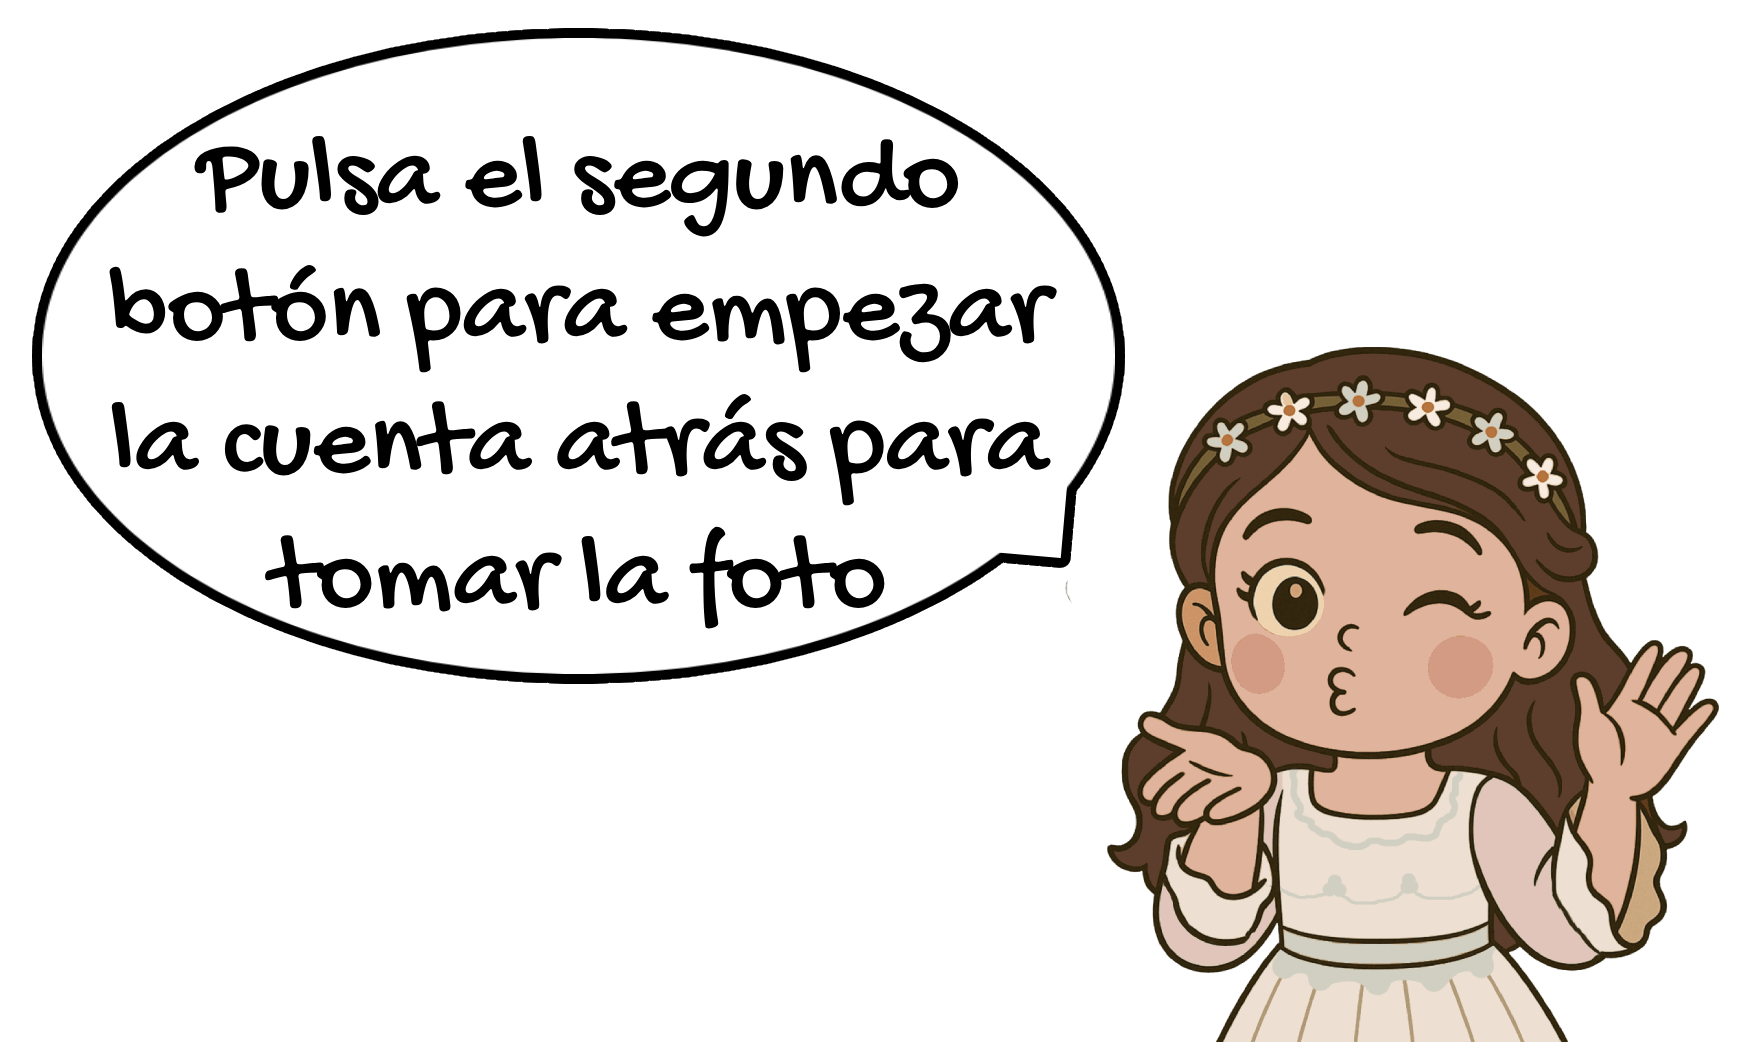
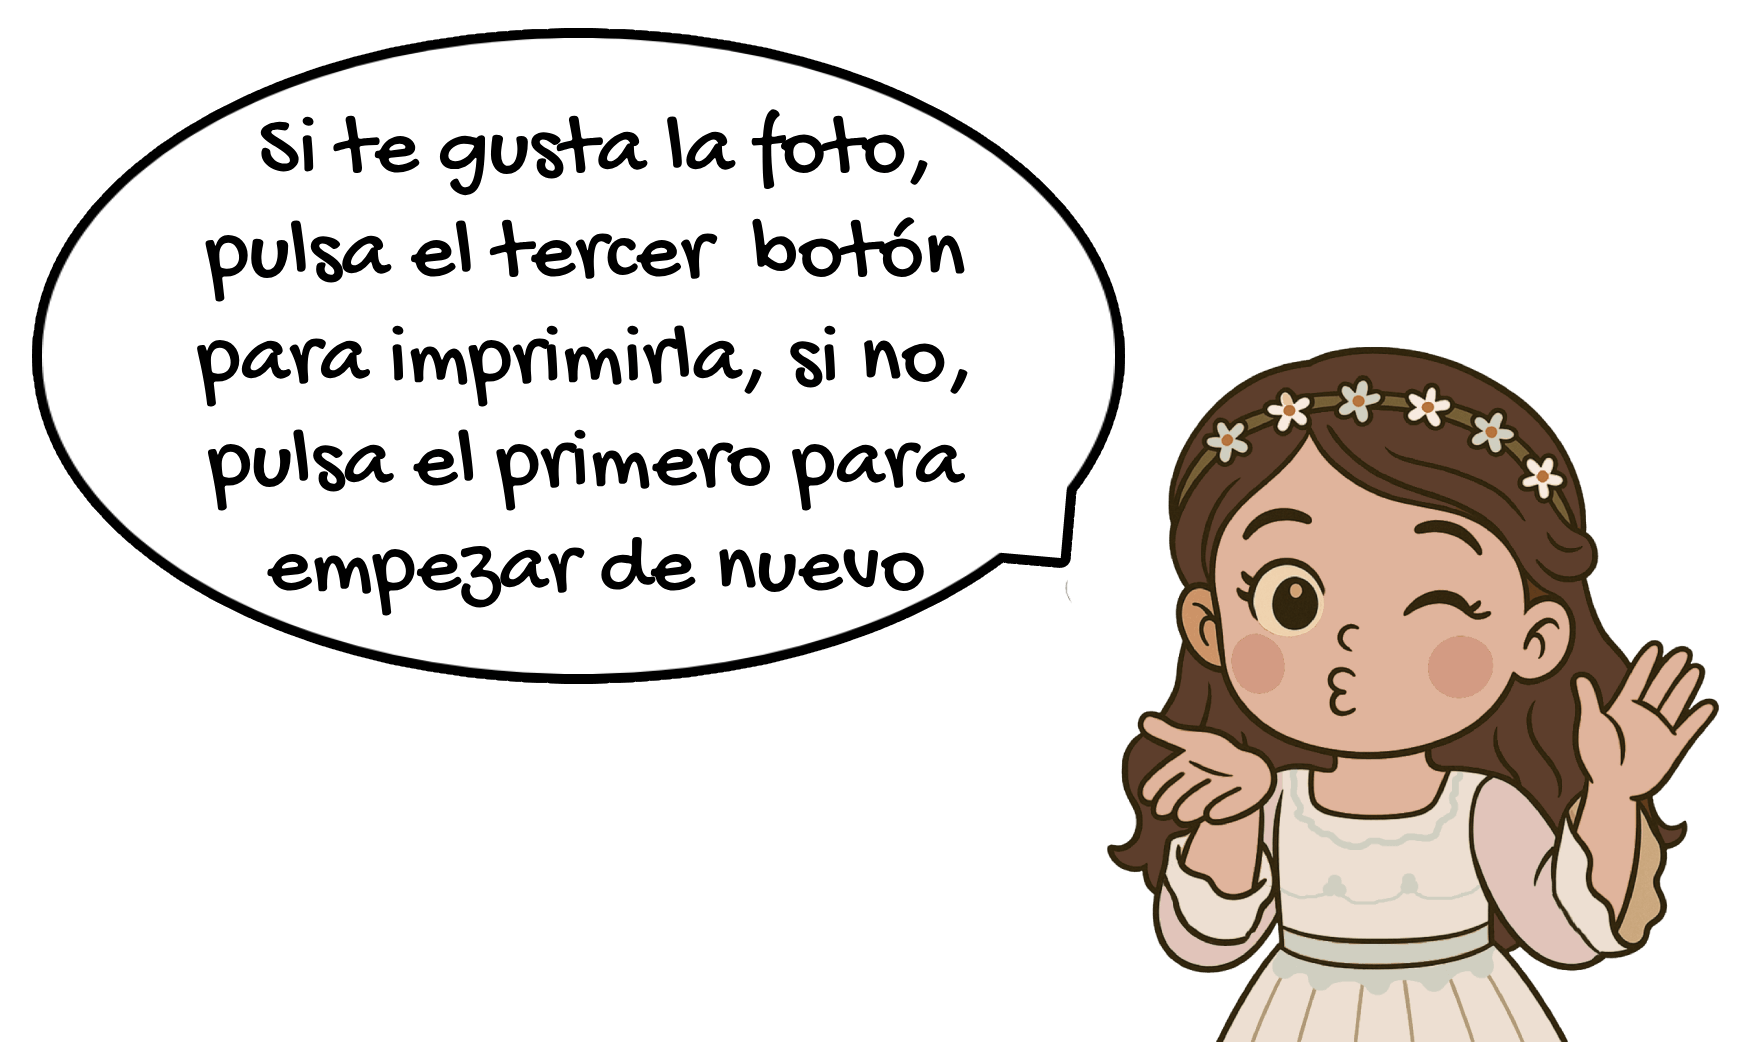
feat(update): update

Changed region(s): [[0.0616, 0.0921, 0.6157, 0.6142]]

diff --git a/public/styles.css b/public/styles.css
@@ -115,24 +115,26 @@ img {
   }
 }
 
-#instructions1, #instructions2, #instructions3 {
-    opacity: 0;
+#instructions1,
+#instructions2,
+#instructions3 {
+  opacity: 0;
   transition: opacity 1s ease-in-out;
   animation: fadeinout 7s forwards;
   position: fixed;
-    width: 30%;
-    left: 0;
-    bottom: 0;
-    border: 0;
-    z-index: 10;
+  width: 30%;
+  bottom: 0;
+  border: 0;
+  z-index: 10;
 }
 
 #instructions2 {
-    right: 0;
+  right: 0;
 }
 
-#instructions1, #instructions3 {
-    left: 0;
+#instructions1,
+#instructions3 {
+  left: 0;
 }
 
 @keyframes fadeinout {

diff --git a/public/script.js b/public/script.js
@@ -7,6 +7,8 @@ const instructions2 = document.getElementById("instructions2");
 const instructions3 = document.getElementById("instructions3");
 let countRun = false;
 let showPhoto = false;
+instructions2.style.display = "none";
+instructions3.style.display = "none";
 
 navigator.mediaDevices
   .getUserMedia({ video: true, audio: false })
